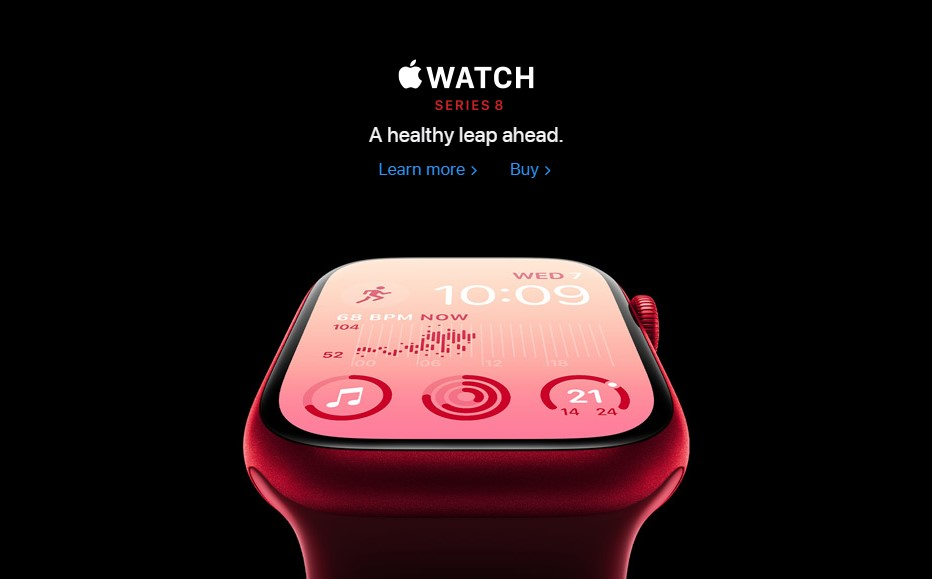
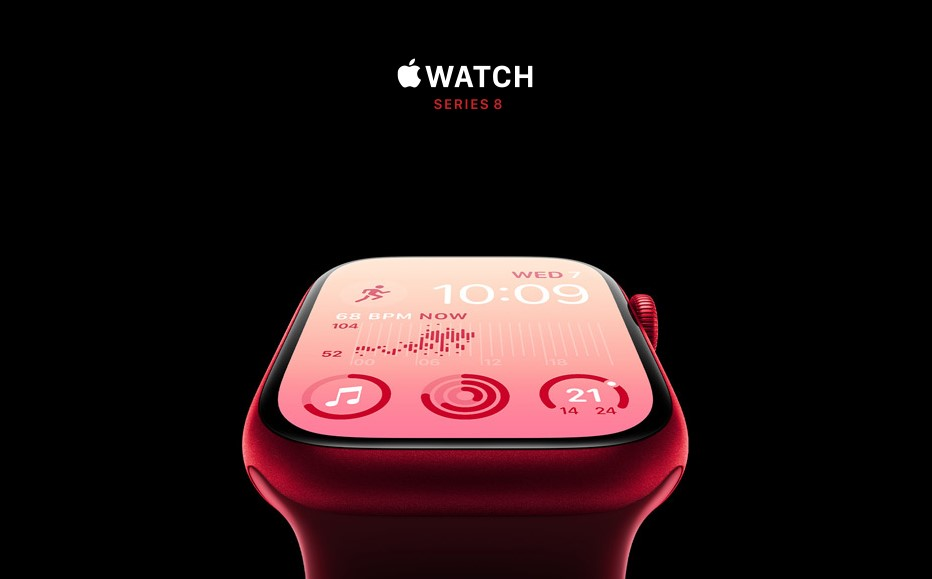
commit 2

diff --git a/style.css b/style.css
@@ -1,8 +1,3 @@
-
-* {
-    font-family: SF Pro Text,SF Pro Icons,Helvetica Neue,Helvetica,Arial,sans-serif;
-}
-
 body {
     margin: 0;
 }
@@ -15,6 +10,7 @@ a:hover{
 }
 
 #navbar {
+    font-family: SF Pro Text,SF Pro Icons,Helvetica Neue,Helvetica,Arial,sans-serif;
     align-items: center;
     color: #E8E8ED;
     background-color: #161617CC;
@@ -41,6 +37,7 @@ ul {
 }
 
 #offer {
+    font-family: SF Pro Text,SF Pro Icons,Helvetica Neue,Helvetica,Arial,sans-serif;
     display: flex;
     flex-wrap: wrap;
     align-items: center;
@@ -187,14 +184,65 @@ img {
 }
 
 #iphone14{ 
-    margin: 6px 12px;
+    margin: 6px 11px;
     height: 62.2vh;
     width: 48.6vw;
     object-fit: none;
     object-position: center bottom;
 }
 #watch {
-    margin-right: 12px;
+    position: absolute;
     height: 62.2vh;
-    width: 48.6vw;
+    width: 50%;
+    top: 236.7%;
+    left: 49.7%;
+    margin-left: 3px;
+}
+
+.text4 {
+    position: absolute;
+    text-align: center;
+    left: 20%;
+    top: 237%;
+    display: flex;
+    flex-direction: column;
+}
+
+#iphone14text {
+    font-family: "SF Pro Display","SF Pro Icons","Helvetica Neue","Helvetica","Arial",sans-serif;
+    font-size: 40px;
+    line-height: 1.1;
+    font-weight: 600;
+    letter-spacing: 0em;
+    margin-top: 53px;
+}
+
+#wonderful {
+    font-size: 21px;
+    line-height: 1.2381;
+    font-weight: 400;
+    letter-spacing: .016em;
+    font-family: "SF Pro Display","SF Pro Icons","Helvetica Neue","Helvetica","Arial",sans-serif;
+    margin-top: 4px;
+    margin-bottom: 0px;
+}
+
+#learnmorebuy3 {
+    font-size: 17px;
+    line-height: 1.23536;
+    font-weight: 400;
+    letter-spacing: -.022em;
+    font-family: "SF Pro Text","SF Pro Icons","Helvetica Neue","Helvetica","Arial",sans-serif;
+    margin-top: 0.7em;
+    text-decoration: none;
+}
+
+.learnmore2 {
+    margin-left: -3px;
+    color: #06c;
+}
+
+.buy2 {
+    margin-left: 28px;
+    color: #06c;
 }

diff --git a/apple.html b/apple.html
@@ -59,9 +59,15 @@
     </div>
     <div id = "image4">
         <img src = "iphones3.jpg" alt = "iphones3" id ="iphone14">
+        <div class = "text4">
+            <span id = "iphone14text">iPhone 14</span>
+            <h3 id = "wonderful">Wonderfull.</h3>
+            <h3 id = "learnmorebuy3"><a class = "learnmore2">Learn more ></a> <a class = "buy2">Buy ></a></h3>
+        </div>
     </div>
     <div id = "image5">
         <img src = "iphones4.jpg" alt = "iphone4" id = "watch">
+        
     </div>
 </body>
 </html>
